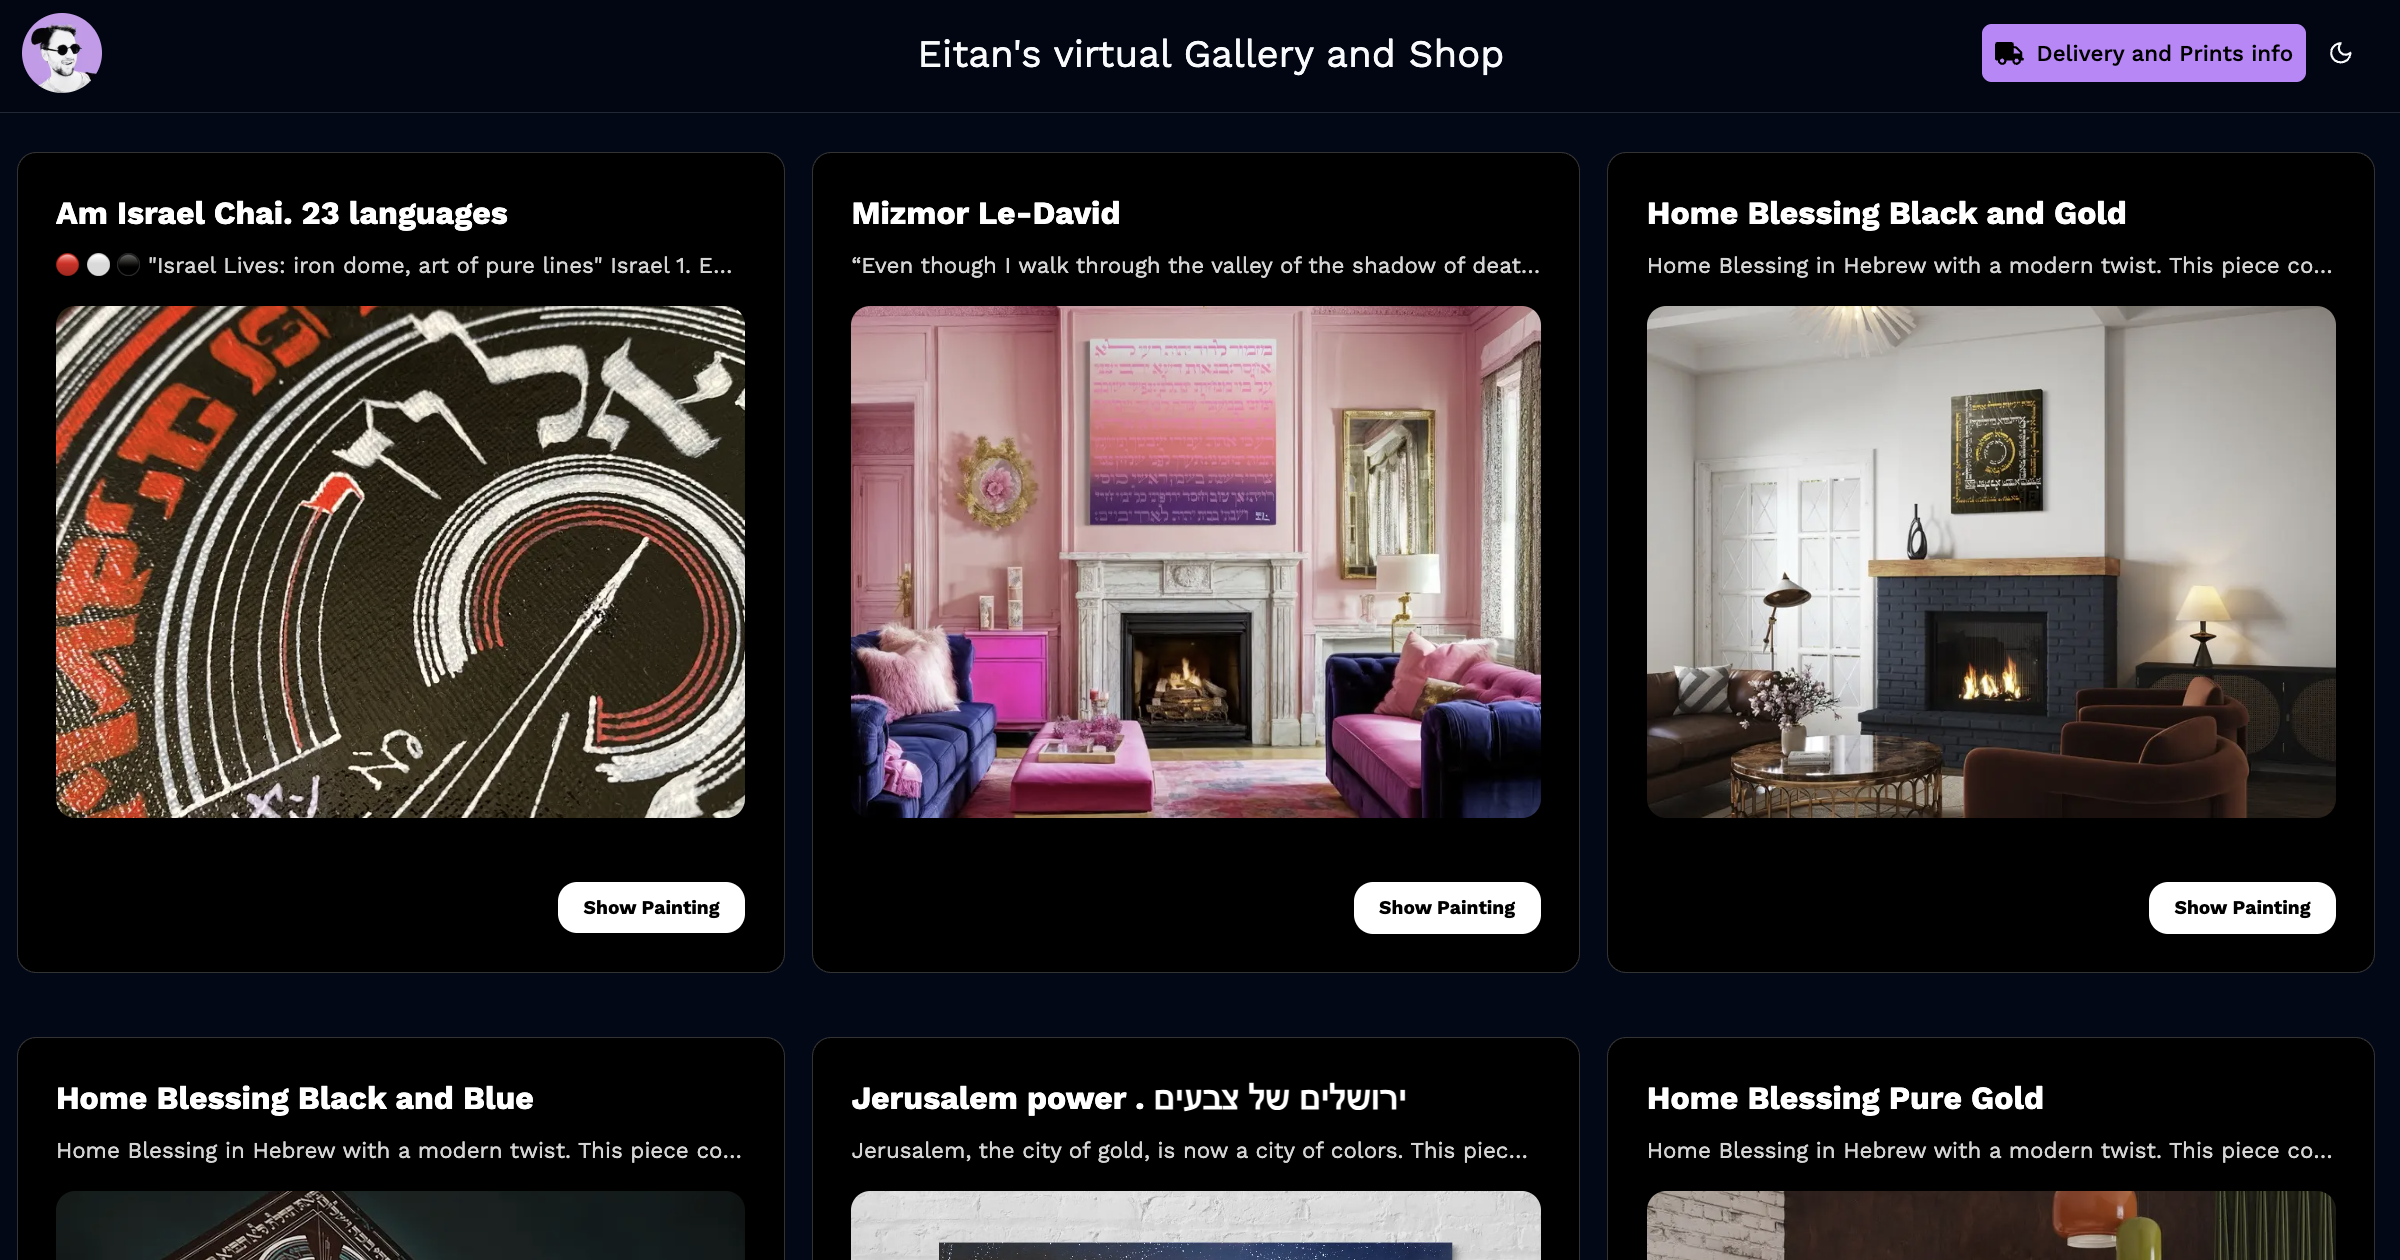
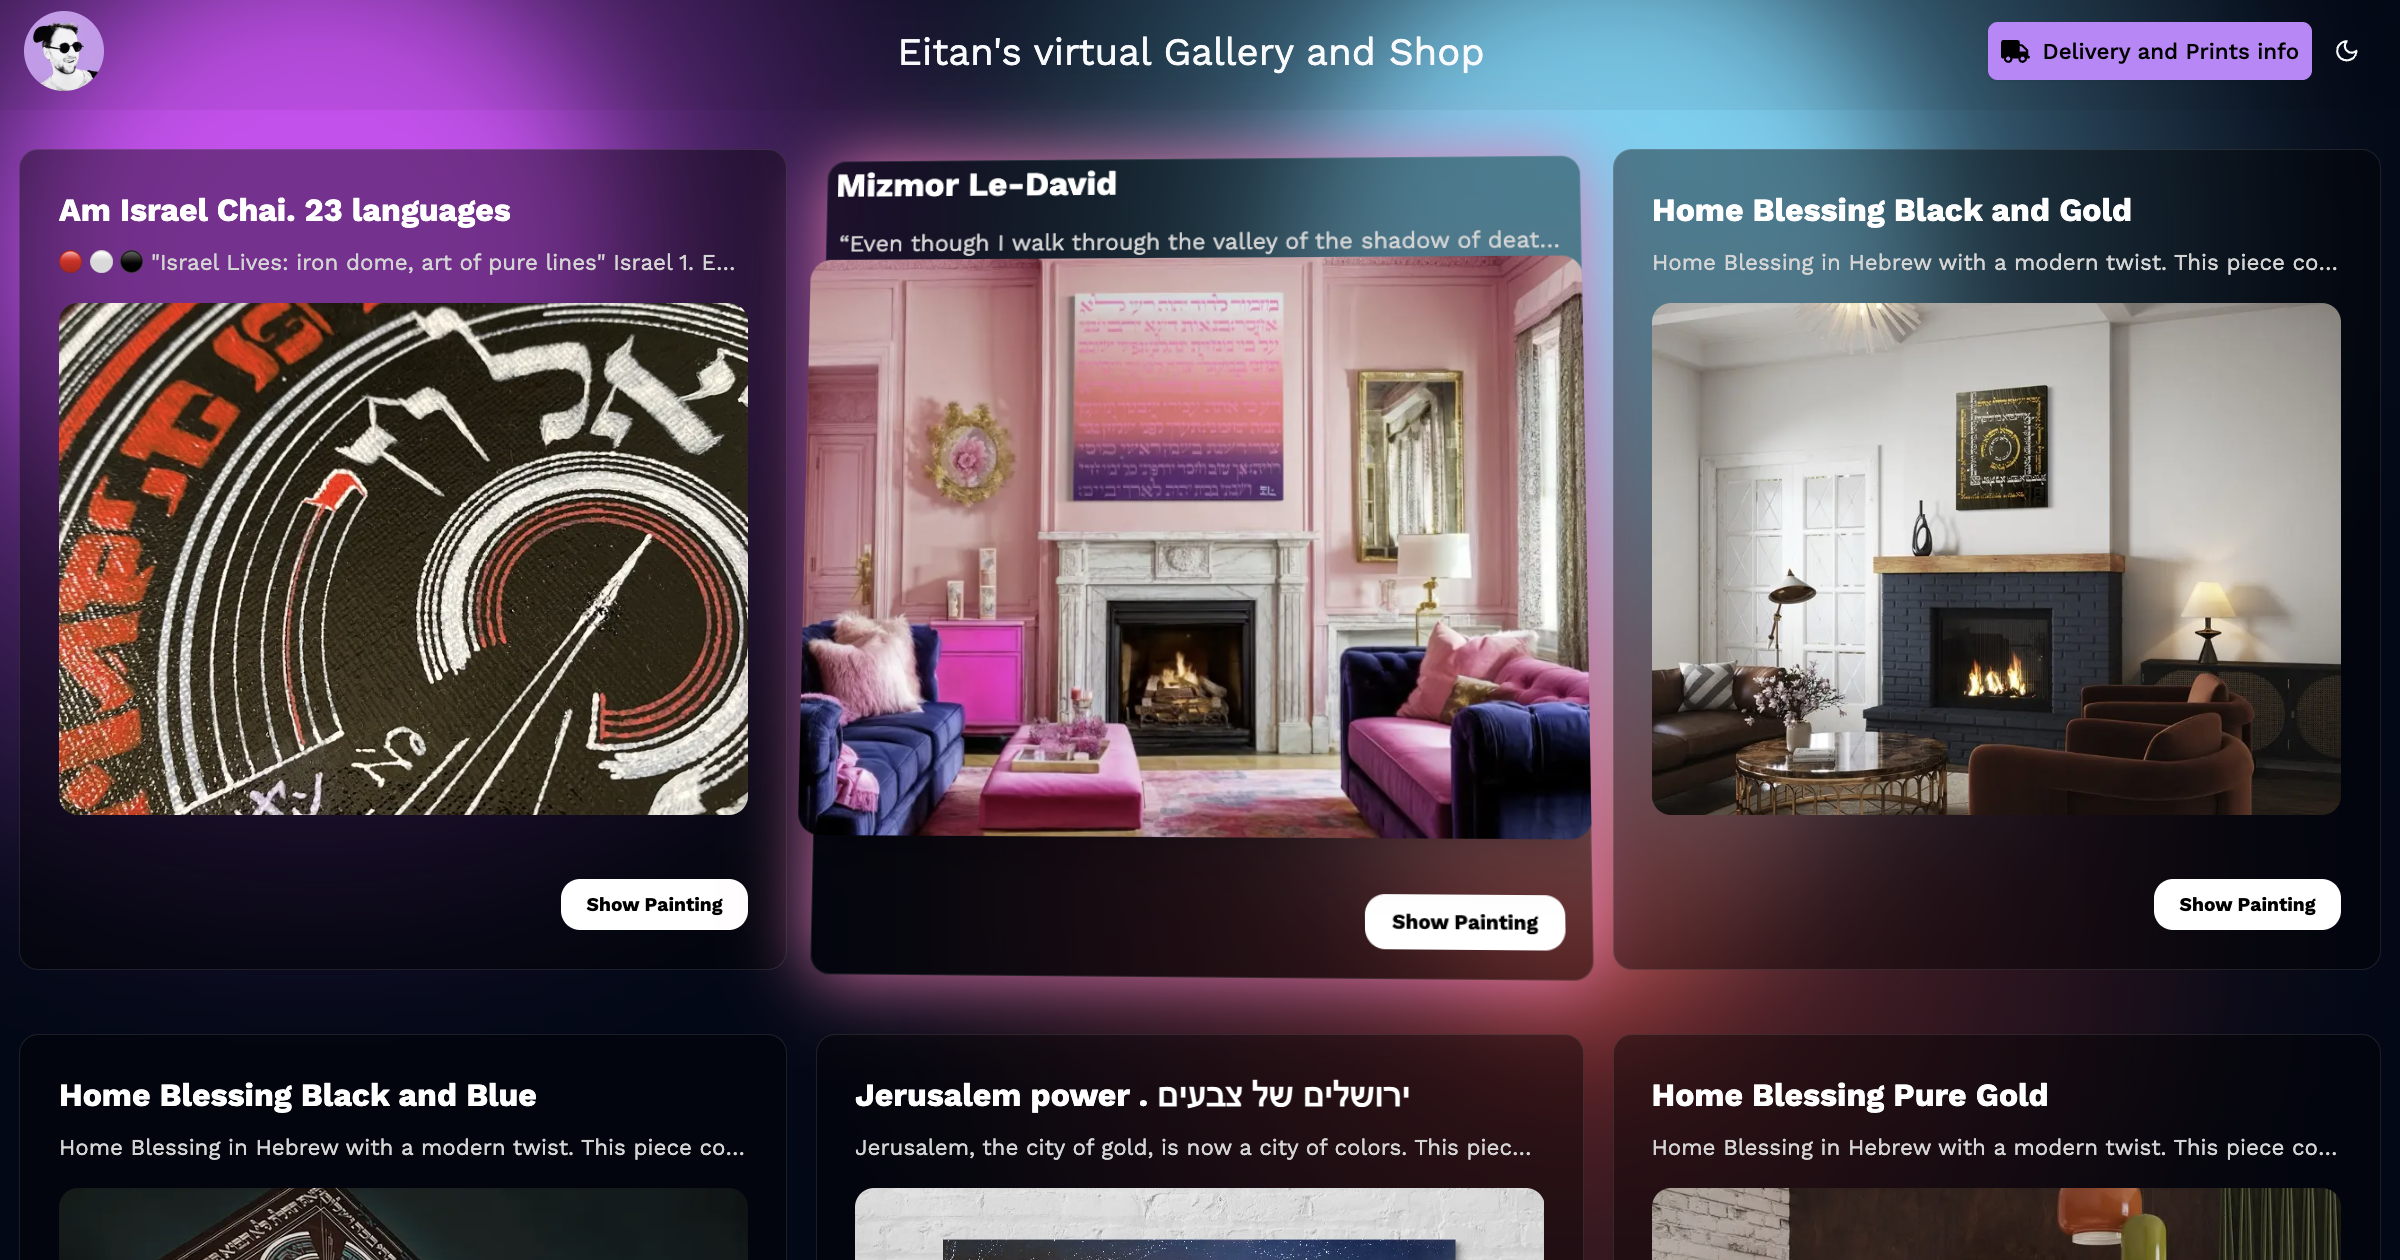
PaintingView mobile view fix

diff --git a/components/ui/card-carousel.tsx b/components/ui/card-carousel.tsx
@@ -120,25 +120,25 @@ export const CardCarouselView: React.FC<CarouselProps> = ({
                 {/*<div className="relative mx-auto flex w-full flex-col rounded-[24px] border border-black/5 bg-neutral-800/5 p-2 shadow-sm md:items-start md:gap-8 md:rounded-b-[20px] md:rounded-t-[40px] md:p-2">*/}
                 <div className="relative mx-auto flex w-full flex-col md:items-start md:gap-8">
                     <div className="flex w-full items-center justify-center gap-4">
-                        <div className="w-full">
+                        <div className={`w-full ${images.length <= 2 && "max-sm:px-2"}`}>
                             <Swiper
-                                spaceBetween={50}
                                 autoplay={{
                                     delay: autoplayDelay,
                                     disableOnInteraction: false
                                 }}
-                                effect={"coverflow"}
+                                // effect={"coverflow"}
+                                effect={images.length > 2 ? "coverflow" : "cards"}
                                 grabCursor={true}
-                                centeredSlides={true}
-                                loop={true}
-                                slidesPerView={"auto"}
+                                centeredSlides={images.length > 2}
+                                loop={images.length > 1}
+                                // slidesPerView={"auto"}
                                 coverflowEffect={{
                                     rotate: 0,
                                     stretch: 0,
                                     depth: 100,
                                     modifier: 2.5,
                                 }}
-                                pagination={showPagination ? {
+                                pagination={showPagination && images.length > 2 ? {
                                     clickable: true,
                                     dynamicBullets: true,
                                     dynamicMainBullets: 3,
@@ -152,34 +152,44 @@ export const CardCarouselView: React.FC<CarouselProps> = ({
                                         : undefined
                                 }
                                 modules={[EffectCoverflow, Autoplay, Pagination, Navigation]}
-                                breakpoints={
-                                    {1024: {
+                                breakpoints={{
+                                    320: {
+                                        slidesPerView: 1.2,
+                                        spaceBetween: 10,
+                                    },
+                                    500: {
+                                        slidesPerView: "auto",
+                                        spaceBetween: 50,
+                                    },
+                                    1024: {
+                                        slidesPerView: "auto",
+                                        spaceBetween: 50,
                                         coverflowEffect: {
                                             modifier: 1.5
                                         }
-                                    }}
-                                }
+                                    }
+                                }}
                             >
-                                {images.length < 3 ? (
-                                    <div className="flex gap-4 justify-center">
-                                        {images.map((image, index) => (
-                                            <div
-                                                key={index}
-                                                className="aspect-[4/5] rounded-3xl h-[74vh] -mb-8"
-                                                onClick={() => handleImageClick(image.src)}
-                                            >
-                                                <Image
-                                                    src={image.src}
-                                                    width={500}
-                                                    height={500}
-                                                    className="w-full h-full rounded-xl object-cover"
-                                                    alt={image.alt}
-                                                    priority={index === 0}
-                                                />
-                                            </div>
-                                        ))}
-                                    </div>
-                                ) : (
+                                {/*{images.length < 3 ? (*/}
+                                {/*    <div className="flex gap-4 justify-center">*/}
+                                {/*        {images.map((image, index) => (*/}
+                                {/*            <div*/}
+                                {/*                key={index}*/}
+                                {/*                className="aspect-[4/5] rounded-3xl h-[74vh] -mb-8"*/}
+                                {/*                onClick={() => handleImageClick(image.src)}*/}
+                                {/*            >*/}
+                                {/*                <Image*/}
+                                {/*                    src={image.src}*/}
+                                {/*                    width={500}*/}
+                                {/*                    height={500}*/}
+                                {/*                    className="w-full h-full rounded-xl object-cover"*/}
+                                {/*                    alt={image.alt}*/}
+                                {/*                    priority={index === 0}*/}
+                                {/*                />*/}
+                                {/*            </div>*/}
+                                {/*        ))}*/}
+                                {/*    </div>*/}
+                                {/*) : (*/}
                                     <>
                                         {images.map((image, index) => (
                                             <SwiperSlide key={`hq-${index}`}>
@@ -215,7 +225,7 @@ export const CardCarouselView: React.FC<CarouselProps> = ({
                                             </SwiperSlide>
                                         ))}
                                     </>
-                                )}
+                                {/*)}*/}
                             </Swiper>
                         </div>
                     </div>

diff --git a/components/NavbarView.tsx b/components/NavbarView.tsx
@@ -18,21 +18,20 @@ const NavbarView = ({ isPaintingView = false }: NavbarViewProps
     return (
         <header className={`flex items-center justify-between gap-1 px-5 py-3 bg-black/5`}>
             {isPaintingView ? (
-                <div
-                    onClick={() => router.back()}
-                    className="flex items-center gap-3 sm:mr-[12vw] cursor-pointer"
-                >
-                    {isPaintingView && (<FaArrowLeft className="opacity-70 sm:hidden" />)}
+                <div className="flex items-center gap-3 sm:mr-[12vw] cursor-pointer">
+                    {isPaintingView && (<FaArrowLeft className="opacity-70 sm:hidden" onClick={() => router.back()} />)}
 
-                    <Image
-                        src="/eitanOnPurple.png"
-                        alt="Eitan's portrait"
-                        width={50}
-                        height={50}
-                        // className="rounded-full object-cover border-2 border-purple-500"
-                        className={`rounded-full object-cover aspect-square ${isPaintingView && "max-sm:hidden"}`}
-                        priority
-                    />
+                    <Link href="/" className={`${isPaintingView && "max-sm:hidden"}`}>
+                        <Image
+                            src="/eitanOnPurple.png"
+                            alt="Eitan's portrait"
+                            width={50}
+                            height={50}
+                            // className="rounded-full object-cover border-2 border-purple-500"
+                            className={`rounded-full object-cover aspect-square`}
+                            priority
+                        />
+                    </Link>
                 </div>
             ) : (
                 <Link href="/" className="flex items-center gap-3 sm:mr-[12vw]">

diff --git a/lib/paintings.tsx b/lib/paintings.tsx
@@ -158,7 +158,7 @@ Enrich your surroundings with blessings and elegance through modern art that ble
         isSold: false,
         isPrintsAvailable: true,
         wasExhibited: false,
-        price: 3000,
+        price: 4000,
         images: [
             '/jlmColors/jlmColors3.jpeg',
             '/jlmColors/jlmColors1.jpeg',
@@ -178,15 +178,14 @@ Enrich your surroundings with blessings and elegance through modern art that ble
     size: "100x80",
     colors: "🟡 ⚪ ⚫",
     isSold: true,
-    isPrintsAvailable: true,
+    isPrintsAvailable: false,
     wasExhibited: false,
-    price: 3000,
+    price: 3600,
     images: [
         '/homeBlessingGold/homeBlessingGold5.jpeg',
         '/homeBlessingGold/homeBlessingGold1.jpeg',
         '/homeBlessingGold/homeBlessingGold2.jpeg',
         '/homeBlessingGold/homeBlessingGold3.jpeg',
-        '/homeBlessingGold/homeBlessingGold4.jpeg',
         '/homeBlessingGold/homeBlessingGold6.jpeg',
     ]
   },
@@ -298,9 +297,9 @@ Enrich your surroundings with blessings and elegance through modern art that ble
   {
     slug: "eshet-chail",
     title: "Eshet Chail, Woman of Valor",
-    description: `Celebrating True Ladies: ‘Eshet Chail (Woman of Valor)’ by King Solomon and my humble self. 🌸✨
+    description: `Celebrating True Ladies: ‘Eshet Chail (Woman of Valor)’ by King Solomon and my humble self.
 
-I poured my heart into this beauty and spent a few sleepless nights with her (took me more than 12 hours total) 😊💔 It’s vibrant, pink, and even has a splash of vodka for that extra sparkle.
+I poured my heart into this beauty and spent a few sleepless nights with her (took me more than 12 hours total). It’s vibrant, pink, and even has a splash of vodka for that extra sparkle.
 
 Here is some text from it (usually sing on Shabbat evening):
 

diff --git a/components/PaintingView.tsx b/components/PaintingView.tsx
@@ -49,7 +49,7 @@ export function PaintingView({ slug, title, description, images, paint, size, pr
                             </div>
                             <div className="space-y-2">
                                 <p><span className="font-semibold">Price:</span> ₪{price.toLocaleString()}</p>
-                                <p><span className="font-semibold">Prints:</span> {isPrintsAvailable ? "Available" : "Original only"}</p>
+                                <p><span className="font-semibold">Prints:</span> {isPrintsAvailable ? "₪200-1000" : "Original only"}</p>
                                 <p><span className="font-semibold">Original:</span> {isSold ? "Sold" : "Available"}</p>
                                 {wasExhibited && <p><span
                                     className="font-semibold">Exhibition:</span> {wasExhibited ? "Has been exhibited" : "Not exhibited"}

diff --git a/app/(root)/layout.tsx b/app/(root)/layout.tsx
@@ -12,7 +12,7 @@ export default function Layout({
     return (
         <main className="font-work-sans">
             <ThemeProvider>
-                <div className="fixed inset-0 z-[-1]">
+                <div className="fixed inset-0 z-[-1] max-sm:hidden">
                     <BackgroundGradientAnimation
                         containerClassName="fixed inset-0 opacity-95 z-[-1]"
                         className="opacity-50"

diff --git a/next.config.ts b/next.config.ts
@@ -2,7 +2,7 @@
 
 const nextConfig = {
     // FIXME
-    // output: "export",
+    output: "export",
     typescript: {
         ignoreBuildErrors: true
     },

diff --git a/README.md b/README.md
@@ -1,20 +1,31 @@
-Eitan's Art Paintings Website
+![og-image](/og-image.png)
 
-лейзи из портфолио?
-чек все страницы артов
-чек цены
-шапку видос?
-Визуал ридми
-купть Домен?
+# Eitan's Paintings Website 🎨✨
 
-- Next.js
-- AceternityUI
-- shadcn
-- swiper
-- KeenSlider
-- ThemeProvider
-- Instagram embed
+An online portfolio of modern artworks — from Hebrew calligraphy in graffiti style to abstract and figurative paintings.  
+The site showcases each piece with photos, videos, descriptions, dimensions, techniques, color palettes, and status (sold, prints available, exhibited).
 
+Deployed website: [artelberg.netlify.app](https://artelberg.netlify.app)
+
+---
+
+## 🚀 Technologies
+- **Next.js** — modern React framework with SSR/SSG
+- **AceternityUI** — elegant UI components
+- **shadcn** — customizable, accessible component library
+- **Swiper** — slider for galleries
+- **KeenSlider** — lightweight and fast slider
+- **ThemeProvider** — light/dark mode support
+- **Instagram embed** — embedding videos and posts from Instagram
+
+---
+
+// TODO
+- лейзи из портфолио?
+- чек все страницы артов
+- чек цены
+- шапку видос?
+- купть Домен?
 
 ---
 
@@ -48,9 +59,3 @@ To learn more about Next.js, take a look at the following resources:
 - [Learn Next.js](https://nextjs.org/learn) - an interactive Next.js tutorial.
 
 You can check out [the Next.js GitHub repository](https://github.com/vercel/next.js) - your feedback and contributions are welcome!
-
-## Deploy on Vercel
-
-The easiest way to deploy your Next.js app is to use the [Vercel Platform](https://vercel.com/new?utm_medium=default-template&filter=next.js&utm_source=create-next-app&utm_campaign=create-next-app-readme) from the creators of Next.js.
-
-Check out our [Next.js deployment documentation](https://nextjs.org/docs/app/building-your-application/deploying) for more details.
